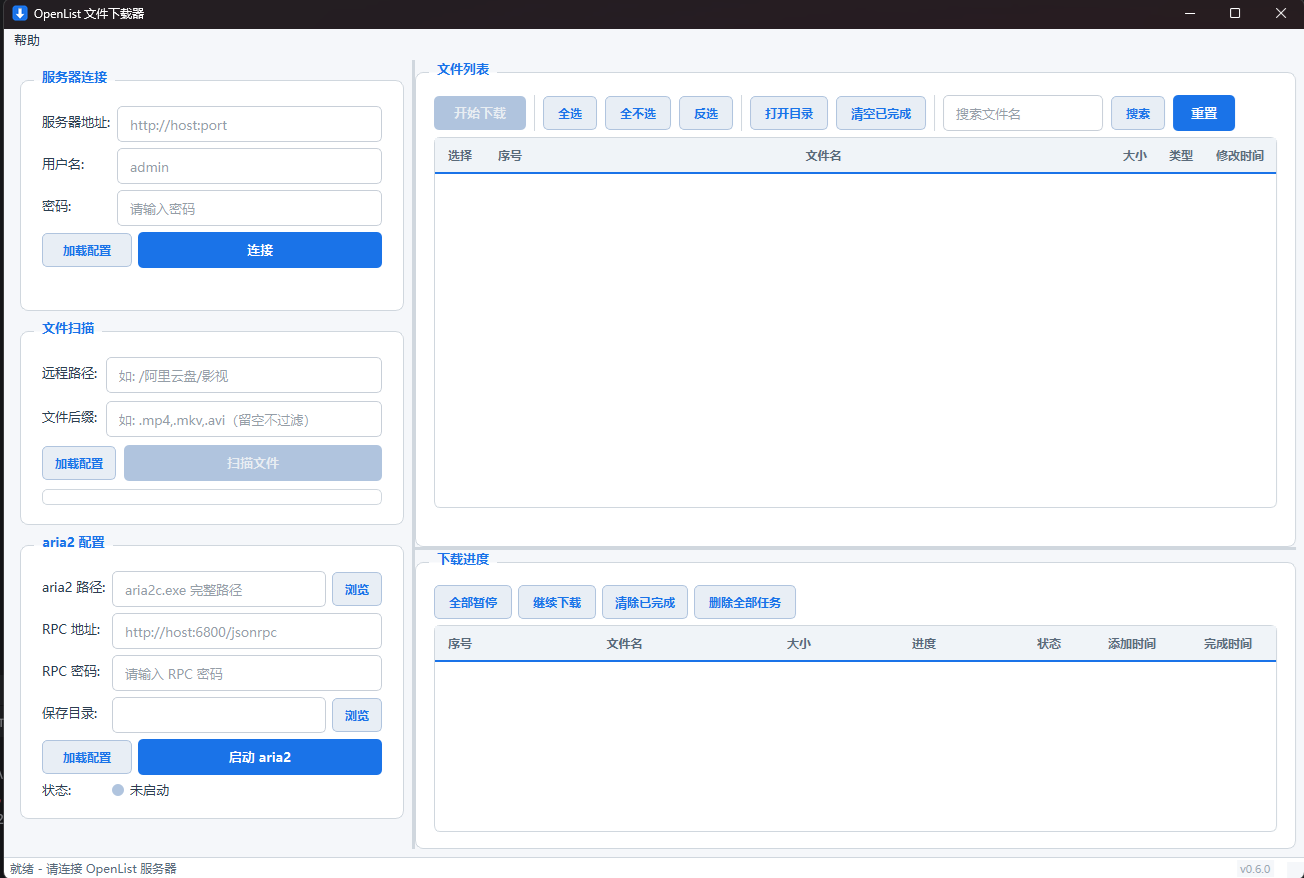
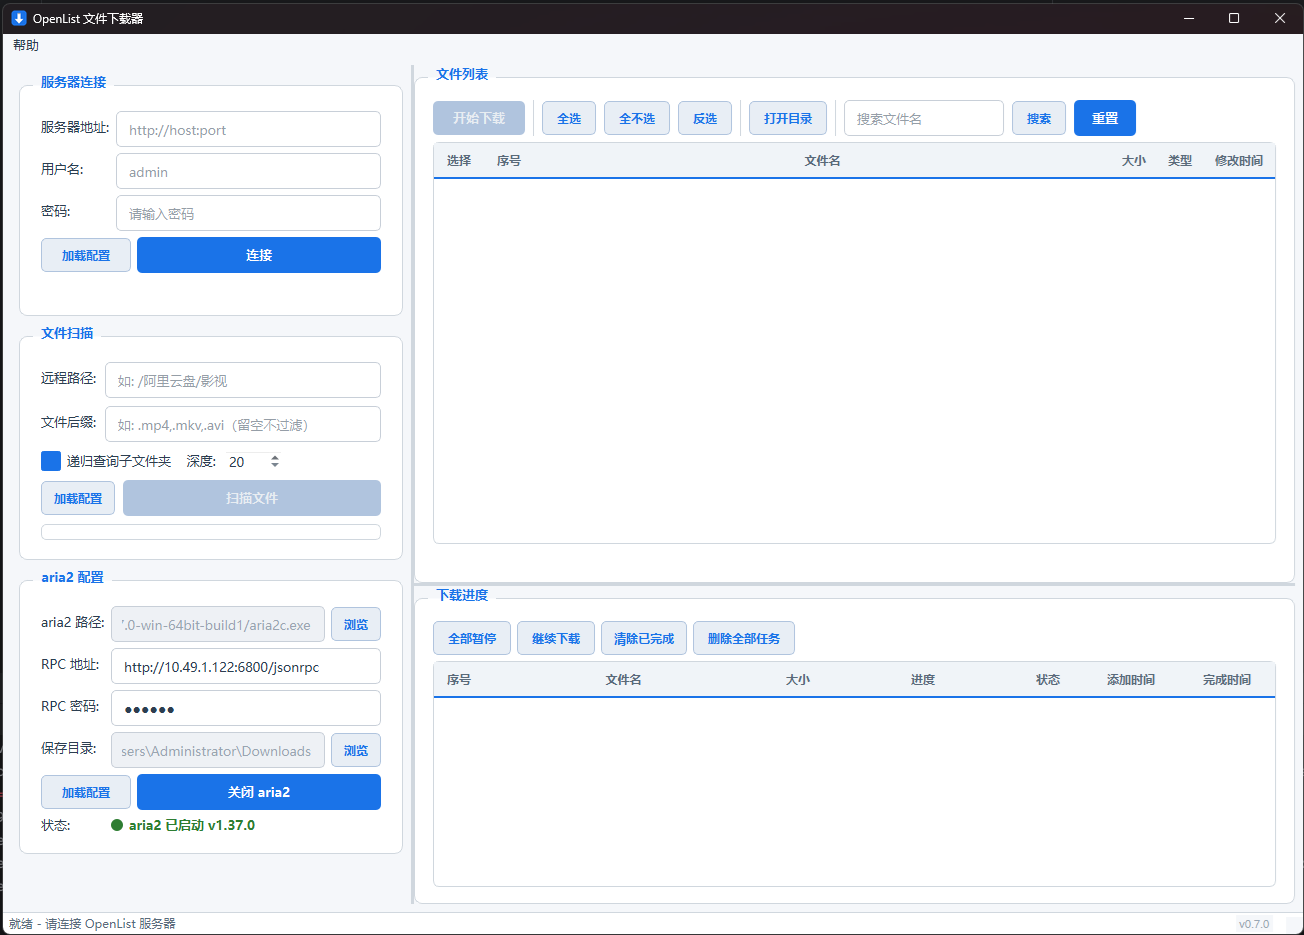
feat: v0.8.0 文件扫描支持递归开关和自定义深度
- 新增递归查询复选框和深度设置（1-20层），取消勾选仅扫描当前目录
- 递归开关和深度设置自动保存至用户配置，支持一键加载
- 更新 README 文档说明递归扫描功能

diff --git a/gui/main_window.py b/gui/main_window.py
@@ -5,6 +5,7 @@ from PyQt6.QtWidgets import (
     QPushButton, QLabel, QLineEdit, QGroupBox, QFormLayout,
     QStatusBar, QMessageBox, QSplitter, QProgressBar,
     QScrollArea, QSizePolicy, QMenuBar, QProgressDialog,
+    QCheckBox, QSpinBox,
 )
 from PyQt6.QtCore import Qt, QUrl, QTimer, QThread, pyqtSignal, QCoreApplication
 from PyQt6.QtGui import QIcon, QAction
@@ -127,8 +128,8 @@ class MainWindow(QMainWindow):
         icon_path = os.path.join(os.path.dirname(os.path.dirname(os.path.abspath(__file__))), "assets", "icon.ico")
         if os.path.isfile(icon_path):
             self.setWindowIcon(QIcon(icon_path))
-        self.setMinimumSize(1200, 800)
-        self.resize(1300, 850)
+        self.setMinimumSize(1200, 900)
+        self.resize(1300, 900)
 
         self.token_manager = TokenManager(OpenListClient.do_login)
         self.client = OpenListClient(self.token_manager)
@@ -177,6 +178,19 @@ class MainWindow(QMainWindow):
         self.suffix_input = QLineEdit()
         self.suffix_input.setPlaceholderText("如: .mp4,.mkv,.avi（留空不过滤）")
         scan_layout.addRow("文件后缀:", self.suffix_input)
+
+        recursive_row = QHBoxLayout()
+        self.recursive_check = QCheckBox("递归查询子文件夹")
+        self.recursive_check.setChecked(True)
+        self.recursive_check.toggled.connect(self._on_recursive_toggled)
+        recursive_row.addWidget(self.recursive_check)
+        recursive_row.addWidget(QLabel("  深度:"))
+        self.depth_spin = QSpinBox()
+        self.depth_spin.setRange(1, 20)
+        self.depth_spin.setValue(20)
+        recursive_row.addWidget(self.depth_spin)
+        recursive_row.addStretch()
+        scan_layout.addRow(recursive_row)
 
         scan_btn_row = QHBoxLayout()
         self.scan_load_btn = QPushButton("加载配置")
@@ -274,6 +288,8 @@ class MainWindow(QMainWindow):
         self.scan_btn.setEnabled(False)
         self.path_input.clear()
         self.suffix_input.clear()
+        self.recursive_check.setChecked(True)
+        self.depth_spin.setValue(20)
         self.file_list_widget.clear_files()
         self.status_bar.showMessage("已断开连接 - 请重新登录")
 
@@ -284,6 +300,10 @@ class MainWindow(QMainWindow):
             self.path_input.setText(cfg["scan_path"])
         if cfg.get("scan_suffix"):
             self.suffix_input.setText(cfg["scan_suffix"])
+        if "scan_recursive" in cfg:
+            self.recursive_check.setChecked(cfg["scan_recursive"])
+        if "scan_depth" in cfg:
+            self.depth_spin.setValue(cfg["scan_depth"])
 
     def _on_scan(self):
         path = self.path_input.text().strip()
@@ -302,13 +322,22 @@ class MainWindow(QMainWindow):
         self.status_bar.showMessage(f"正在扫描: {path}")
 
         from utils.config_manager import save_config
-        save_config(scan_path=path, scan_suffix=suffix_text)
+        save_config(scan_path=path, scan_suffix=suffix_text,
+                    scan_recursive=self.recursive_check.isChecked(),
+                    scan_depth=self.depth_spin.value())
 
-        self.scanner = FileScanner(self.client, path, suffixes)
+        self.scanner = FileScanner(
+            self.client, path, suffixes,
+            recursive=self.recursive_check.isChecked(),
+            max_depth=self.depth_spin.value(),
+        )
         self.scanner.scan_progress.connect(self._on_scan_progress)
         self.scanner.scan_finished.connect(self._on_scan_finished)
         self.scanner.scan_error.connect(self._on_scan_error)
         self.scanner.start()
+
+    def _on_recursive_toggled(self, checked: bool):
+        self.depth_spin.setEnabled(checked)
 
     def _on_scan_progress(self, current_path: str):
         self.status_bar.showMessage(f"扫描中: {current_path}")

diff --git a/core/file_scanner.py b/core/file_scanner.py
@@ -26,11 +26,14 @@ class FileScanner(QThread):
     scan_error = pyqtSignal(str)
 
     def __init__(self, client: OpenListClient, root_path: str,
-                 suffixes: list, parent=None):
+                 suffixes: list, recursive: bool = True, max_depth: int = 20,
+                 parent=None):
         super().__init__(parent)
         self.client = client
         self.root_path = root_path
         self.suffixes = [s.lower() for s in suffixes]
+        self.recursive = recursive
+        self.max_depth = max_depth
         self._cancel_event = threading.Event()
         self.total_scanned = 0
 
@@ -39,7 +42,9 @@ class FileScanner(QThread):
 
     def run(self):
         try:
-            logger.info("开始扫描: %s (后缀过滤: %s)", self.root_path, self.suffixes or "无")
+            logger.info("开始扫描: %s (后缀过滤: %s, 递归: %s, 最大深度: %d)",
+                        self.root_path, self.suffixes or "无",
+                        self.recursive, self.max_depth)
             self.total_scanned = 0
             results = self._scan_dir(self.root_path, depth=0)
             if not self._cancel_event.is_set():
@@ -78,6 +83,11 @@ class FileScanner(QThread):
                 is_dir = item.get("is_dir", False)
 
                 if is_dir:
+                    if not self.recursive:
+                        continue
+                    if depth >= self.max_depth:
+                        logger.warning("超过用户设定递归深度 %d, 跳过: %s", self.max_depth, item_path)
+                        continue
                     sub_files = self._scan_dir(item_path, depth + 1)
                     all_files.extend(sub_files)
                 else:

diff --git a/utils/config_manager.py b/utils/config_manager.py
@@ -19,6 +19,8 @@ _DEFAULTS = {
     "server_url": "",
     "scan_path": "",
     "scan_suffix": "",
+    "scan_recursive": True,
+    "scan_depth": 20,
     "aria2_path": "",
     "rpc_url": "",
     "rpc_secret": "",

diff --git a/version.py b/version.py
@@ -1,3 +1,3 @@
 # @author: awen
 
-__version__ = "0.7.0"
+__version__ = "0.8.0"

diff --git a/README.md b/README.md
@@ -10,7 +10,7 @@ OpenList 文件下载器是一个基于 PyQt6 的桌面客户端，用于从 [Op
 ## 功能特性
 
 - **服务器连接** — 支持 OpenList / AList v3 API，登录后自动管理 Token，过期自动重新登录；支持断开连接，断开前检测未完成任务并提醒
-- **文件扫描** — 递归扫描远程目录，支持按文件后缀过滤（如 `.mp4,.mkv`），后台线程运行不阻塞界面
+- **文件扫描** — 支持递归/非递归扫描远程目录，可自定义递归深度（1-20 层），支持按文件后缀过滤（如 `.mp4,.mkv`），后台线程运行不阻塞界面；递归开关和深度设置自动保存至配置
 - **文件列表** — 支持全选、全不选、反选，实时显示选中文件数量和大小；重复下载时弹窗提醒用户
 - **下载进度** — 实时显示下载进度条、状态（等待中/下载中/已完成/失败）、添加时间和完成时间，支持点击表头排序；全部暂停/继续下载/清除已完成/删除全部任务按钮根据任务状态自动启用或禁用
 - **aria2 集成** — 一键启动/关闭 aria2，通过 JSON-RPC 管理下载任务，支持批量添加；关闭前检测活跃任务并确认；一键打开下载目录
@@ -59,6 +59,7 @@ python main.py
 3. **扫描文件** — 在「文件扫描」区域填写以下信息，点击「扫描文件」
    - **远程路径**：OpenList 网盘中的目录路径，格式 `/驱动器/目录/子目录`，例如 `/阿里云盘/影视` 或 `/test/f1/doc1`
    - **文件后缀**：按后缀过滤，多个用英文逗号分隔，例如 `.mp4,.mkv,.avi`，留空则扫描全部文件
+   - **递归查询子文件夹**：勾选后会递归扫描子目录，可设置递归深度（1-20 层）；取消勾选则仅扫描当前目录下的文件
 4. **下载文件** — 在文件列表中勾选需要下载的文件，点击「开始下载」
 5. **查看进度** — 在下载进度面板中实时查看下载状态（等待中/下载中/已完成/失败），完成后可点击「清空已完成」清理记录
 
